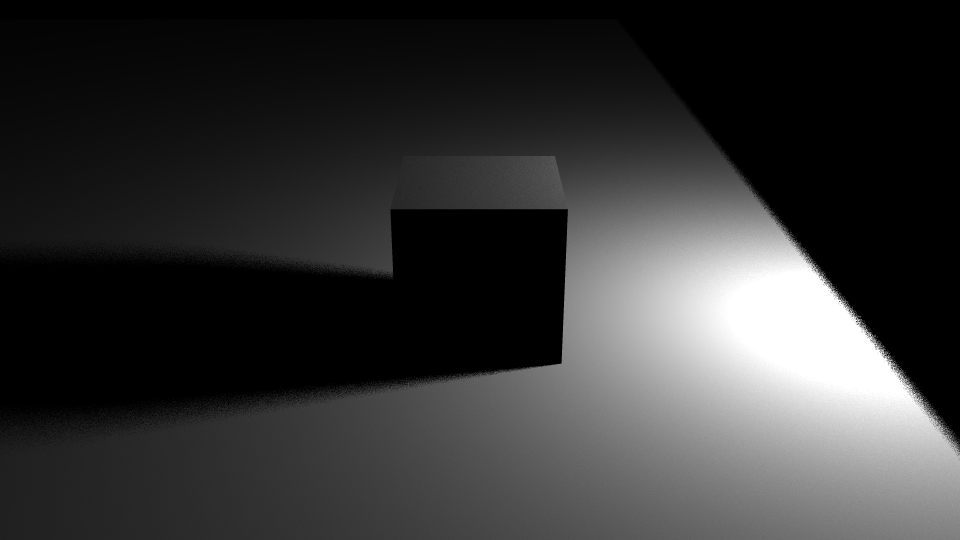
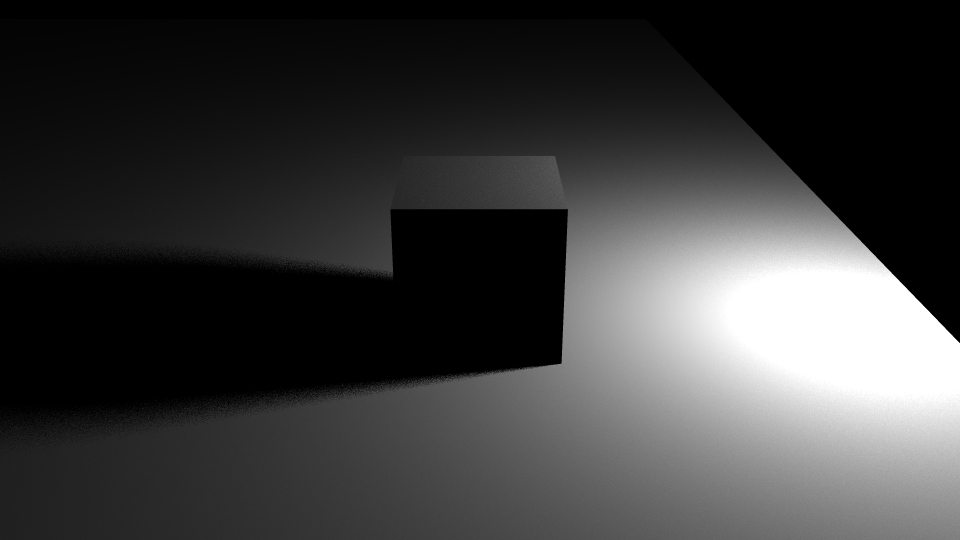
fix: wrong DiskLight rendering

Changed region(s): [[0.7188, 0.1778, 1.0, 0.8296]]

diff --git a/src/crayg/src/scene/DiskLight.cpp b/src/crayg/src/scene/DiskLight.cpp
@@ -11,11 +11,11 @@ Vector3f DiskLight::sampleLightShape() const {
     return getTransform().apply(positionOnPlane);
 }
 Vector3f DiskLight::getNormal(Vector3f point) {
-    return transform.applyForNormal({1, 0, 0}).normalize();
+    return transform.applyForNormal({0, 0, 1}).normalize();
 }
 Imageable::Intersection DiskLight::intersect(Ray ray) {
-  const Vector3f normal = getNormal({0, 0, 0}).normalize();
-  const Vector3f center = transform.apply({0, 0, 0});
+    const Vector3f normal = transform.applyForNormal(getNormal({0, 0, 0}));
+    const Vector3f center = transform.apply({0, 0, 0});
   if (normal.dot(ray.direction) > 0) {
     return Imageable::Intersection::createInvalid();
   }
@@ -33,8 +33,8 @@ Imageable::Intersection DiskLight::intersect(Ray ray) {
   return Imageable::Intersection::createInvalid();
 }
 bool DiskLight::isIntersecting(Ray ray) {
-  const Vector3f normal = getNormal({0, 0, 0});
-  const Vector3f center = transform.apply({0, 0, 0});
+    const Vector3f normal = transform.applyForNormal(getNormal({0, 0, 0}));
+    const Vector3f center = transform.apply({0, 0, 0});
   if (normal.dot(ray.direction) > 0) {
     return false;
   }

diff --git a/src/crayg/tests/TestDiskLight.cpp b/src/crayg/tests/TestDiskLight.cpp
@@ -56,10 +56,10 @@ TEST_CASE("DiskLight::sampleLightShape") {
 
 TEST_CASE("DiskLight isIntersecting", "[DiskLight]") {
 
-    DiskLight diskLight(Transform::withPosition({-3, 0, 0}), 1.0f, 1.0f);
+    DiskLight diskLight(Transform::withPosition({0, 0, -3}), 1.0f, 1.0f);
 
     SECTION("front should intersect") {
-        const Ray ray = {{0, 0, 0}, {-1, 0, 0}};
+        const Ray ray = {{0, 0, 0}, {0, 0, -1}};
 
         const bool isIntersecting = diskLight.isIntersecting(ray);
 
@@ -78,10 +78,10 @@ TEST_CASE("DiskLight isIntersecting", "[DiskLight]") {
 
 TEST_CASE("DiskLight intersect", "[DiskLight]") {
 
-    std::shared_ptr<DiskLight> diskLight = std::make_shared<DiskLight>(Transform::withPosition({-3, 0, 0}), 1.0f, 1.0f);
+    std::shared_ptr<DiskLight> diskLight = std::make_shared<DiskLight>(Transform::withPosition({0, 0, -3}), 1.0f, 1.0f);
 
     SECTION("front should intersect") {
-        const Ray ray = {{0, 0, 0}, {-1, 0, 0}};
+        const Ray ray = {{0, 0, 0}, {0, 0, -1}};
 
         const Imageable::Intersection intersection = diskLight->intersect(ray);
 
